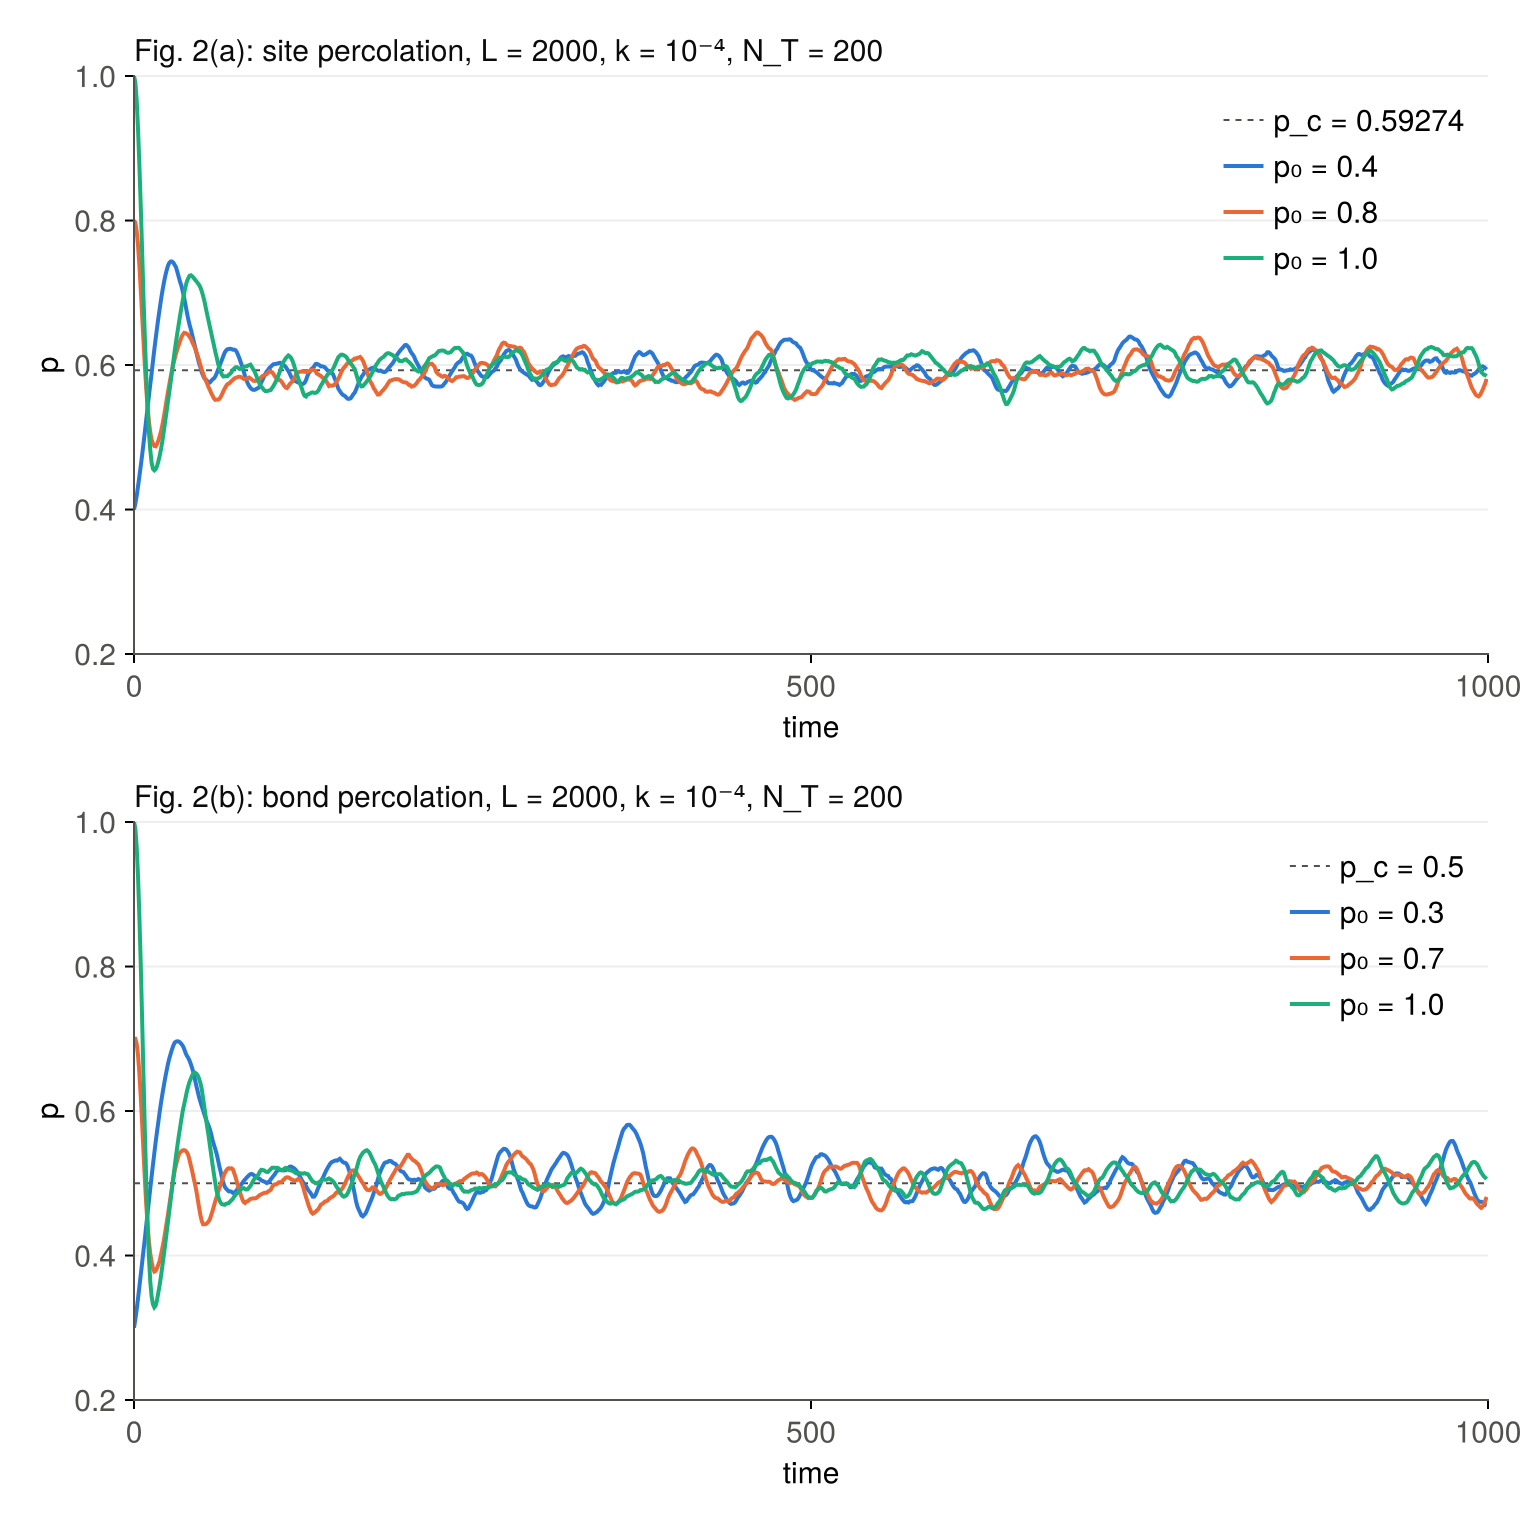
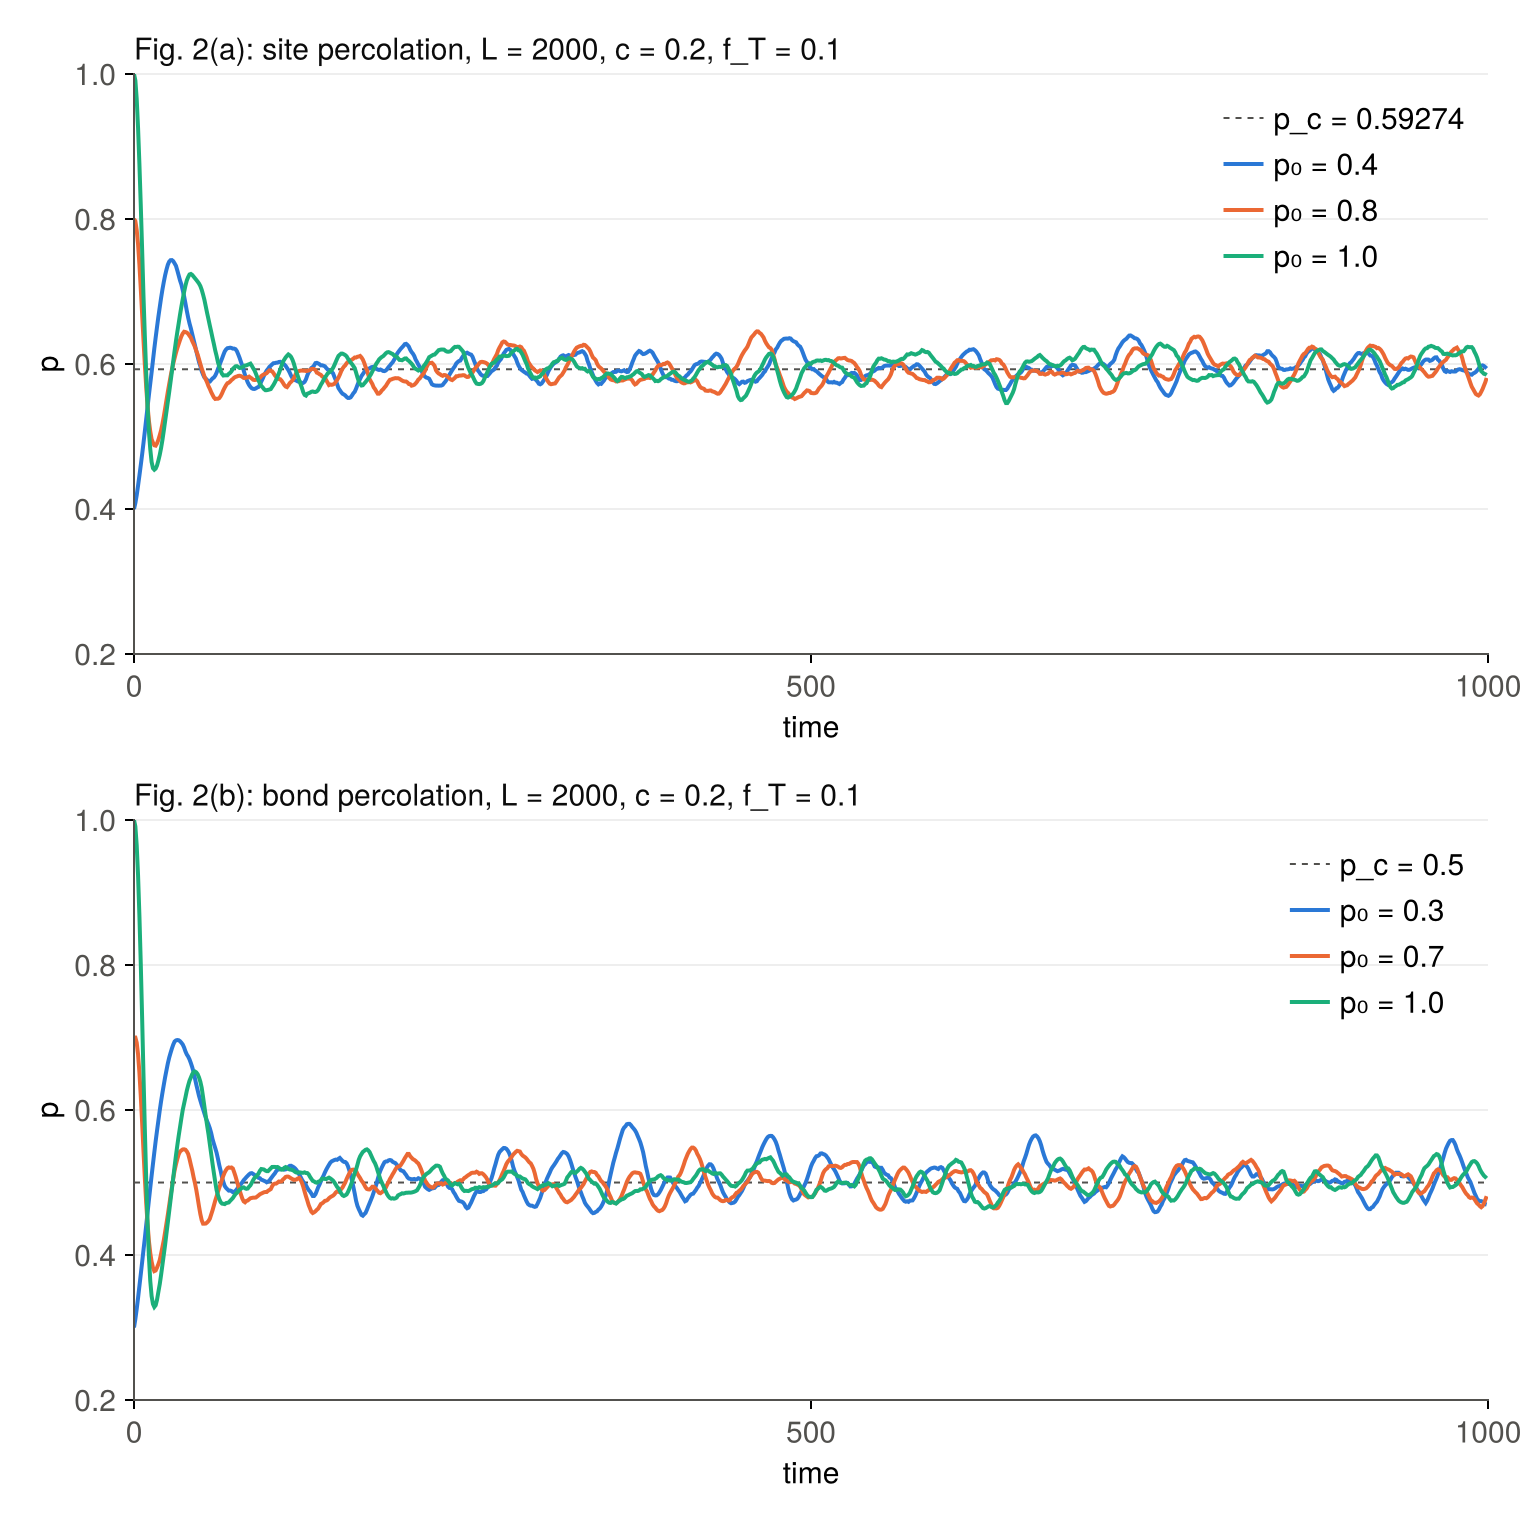
Measure active sites in units of the wall area
Replace the k and target keywords with c and f_T, and report f instead
of N in results. This is a breaking change, so bump the version to 0.2.0.
The 1997 reproduction gives the same stationary values.

diff --git a/README.md b/README.md
@@ -7,11 +7,11 @@ with one or more immiscible fluids injected from the left wall.
 using SelfOrganizedPercolation, Random
 
 model = SOPModel(SquareLattice(2000);
-    percolation = SitePercolation(), seeds = 100, p0 = 1.0, k = 1e-4, target = 200, tmax = 1000)
+    percolation = SitePercolation(), seeds = 100, p0 = 1.0, c = 0.2, f_T = 0.1, tmax = 1000)
 
 result = simulate(model; rng = Xoshiro(1))
 result.p        # p(t), one column per fluid
-result.N        # N(t), one column per fluid
+result.f        # f(t) = N(t)/L^(d-1), one column per fluid
 result.status   # :extinct, :spanned, :tmax or :maxlength
 
 means = ensemble(model, 64; f = r -> stationary_mean(@view r.p[:, 1]))   # start with julia -t auto
@@ -27,9 +27,11 @@ means = ensemble(model, 64; f = r -> stationary_mean(@view r.p[:, 1]))   # start
 | `right` | `FixedRight(L)`, `GrowingRight(L0; maxlength)` (the wall moves ahead of the front) |
 | `periodic` | periodic transverse boundaries; `false` matches the 1997 paper |
 | `species` | number of immiscible fluids: up to 254 for bond, 8 for site |
-| `target` | a number, `PowerLawTarget(a, α)`, or any function of `t` |
+| `f_T` | a number, `PowerLawTarget(a, α)`, or any function of `t` |
 
-To convert from the `c`, `f_T` notation, use `k = c / W^(d-1)` and `target = f_T * W^(d-1)`.
+Active sites are measured in units of the wall surface area, so the feedback rule is
+`p(t+1) = p(t) + c[f_T - f(t)]` with `f(t) = N(t)/L^(d-1)`. The parameters of the 1997
+paper convert as `c = k L^(d-1)` and `f_T = N_T / L^(d-1)`.
 
 ## Contested sites
 
